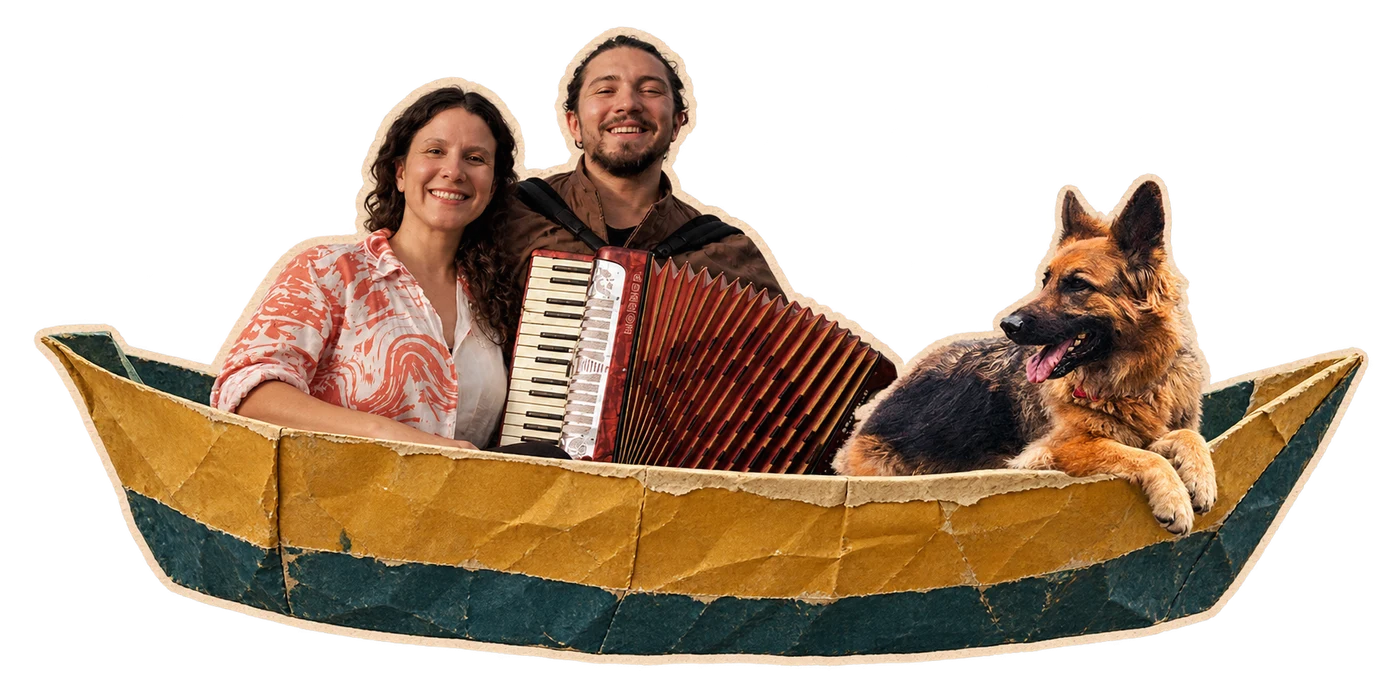
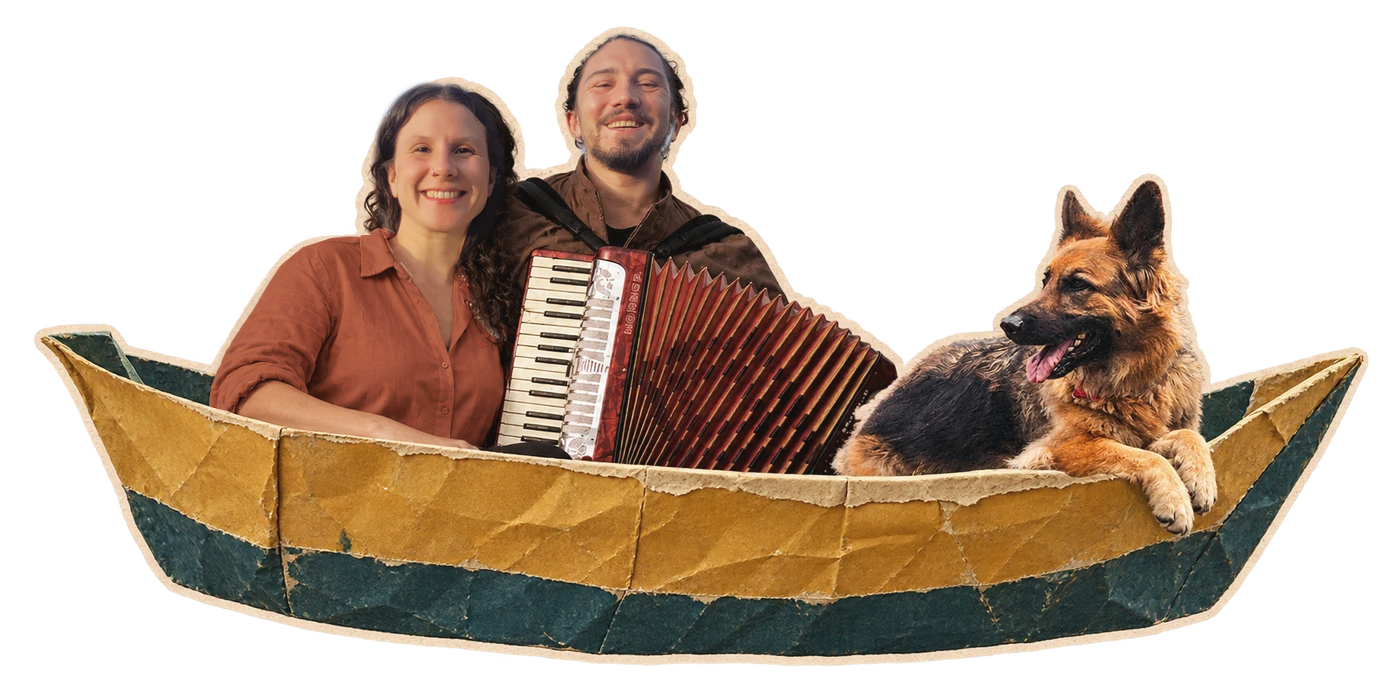
página nosotros

Changed region(s): [[0.1536, 0.1202, 0.3686, 0.6609], [0.3993, 0.03, 0.4914, 0.3004]]

diff --git a/nosotrxs-sea.css b/nosotrxs-sea.css
@@ -1,3 +1,25 @@
 @font-face{font-family:Kaftan;src:url('propuestas/assets/kaftan-trial.otf');font-display:swap}*{box-sizing:border-box}html{scroll-behavior:smooth}body{margin:0;color:#efe5cb;background:#12373e;font:18px/1.8 'Courier Prime',monospace}a{color:inherit;text-underline-offset:6px}a:focus-visible,summary:focus-visible{outline:2px solid currentColor;outline-offset:6px}.skip-work{position:fixed;top:-80px;z-index:50;padding:10px 20px;background:#efe5cb;color:#173d41}.skip-work:focus{top:10px}.sky{background:#e6d3af url('assets/pedagogias/papel-marfil.png') center/950px;background-blend-mode:multiply;color:#252d27}.work-header{max-width:1200px;margin:auto;padding:28px 50px;display:flex;align-items:center;justify-content:space-between;gap:25px;position:relative;z-index:10}.work-brand img{width:48px;height:68px;object-fit:contain}.work-header>nav{display:flex;gap:26px;font-size:14px}.work-header a{text-decoration:none}.work-header a[aria-current]{text-decoration:underline}.work-menu{display:none}.surface{height:650px;position:relative;overflow:hidden;isolation:isolate}.surface h1{font:clamp(62px,8vw,115px)/1.1 Kaftan,serif;text-align:center;margin:0;position:relative;z-index:3;padding-top:20px}.mountains{position:absolute;bottom:190px;left:50%;transform:translateX(-50%);width:max(100%,850px);height:auto;max-height:380px;object-fit:fill;z-index:1}.surface-water{position:absolute;inset:auto -30px 0;height:215px;background:#24555b url('assets/scene-water-2172.webp') center top/1250px auto;z-index:2;clip-path:polygon(0 4%,8% 3%,16% 5%,24% 2%,33% 4%,42% 1%,53% 4%,62% 2%,75% 4%,85% 1%,94% 3%,100% 2%,100% 100%,0 100%);animation:surface-current 12s ease-in-out infinite alternate}.surface:after{content:'';position:absolute;bottom:-1px;left:0;right:0;height:100px;background:linear-gradient(transparent,#173f47);z-index:4;pointer-events:none}.surface-boat{position:absolute;bottom:65px;left:50%;width:min(530px,79%);height:auto;z-index:3;animation:float-boat 8s ease-in-out infinite}.underwater{position:relative;isolation:isolate;overflow:hidden;background:linear-gradient(#173f47,#12343c);padding:80px 0 0}.water-texture{position:absolute;inset:-40px -7%;z-index:-1;pointer-events:none;background:url('assets/scene-water-2172.webp') center top/1200px 410px repeat;opacity:.12;animation:deep-current 18s ease-in-out infinite alternate}.underwater:before{content:'';position:absolute;inset:0;z-index:-1;pointer-events:none;background:linear-gradient(106deg,transparent 10%,#b8ddca08 20%,transparent 29%,transparent 59%,#b8ddca07 64%,transparent 73%)}.manifesto{width:calc(100% - 60px);max-width:740px;margin:auto;padding-bottom:85px}.manifesto>h2{font:clamp(42px,5vw,65px)/1.2 Kaftan,serif;text-align:center;margin:0 0 60px}.manifesto p{margin:0 0 30px}.manifesto .manifesto-opening{font:clamp(32px,4vw,49px)/1.35 Kaftan,serif;text-align:center;margin-bottom:65px}.manifesto .manifest-poem{font:clamp(29px,3.5vw,40px)/1.5 Kaftan,serif;text-align:center;margin:60px 0}.manifesto-ending{text-align:center;font-weight:700;padding:25px 0 45px}.manifest-people{margin-top:25px}.manifest-people summary{cursor:pointer;padding:24px 0;text-align:center;text-decoration:underline;text-underline-offset:7px}.manifest-people[open] summary{margin-bottom:35px}.manifest-people h2{font:38px/1.3 Kaftan,serif;margin:70px 0 30px}.work-footer{padding:0 0 55px}.site-social{display:flex;justify-content:center;gap:25px}.site-social a{display:grid;place-items:center;width:44px;height:44px}.site-social svg{width:26px;height:26px}@keyframes float-boat{0%,100%{transform:translateX(-50%) translateY(0) rotate(-1deg)}50%{transform:translateX(-50%) translateY(-9px) rotate(1deg)}}@keyframes surface-current{to{transform:translateX(20px)}}@keyframes deep-current{to{transform:translate(32px,16px)}}@media(max-width:650px){body{font-size:16px}.work-header{padding:24px 30px}.work-brand img{width:42px;height:60px}.work-header>nav{display:none}.work-menu{display:block;position:relative}.work-menu summary{list-style:none;cursor:pointer;padding:12px}.work-menu summary::-webkit-details-marker{display:none}.work-menu nav{position:absolute;right:0;top:48px;padding:25px;background:#eee2c9;min-width:210px;display:flex;flex-direction:column;gap:15px;box-shadow:0 10px 30px #1a29231a}.surface{height:520px}.surface h1{font-size:65px;padding-top:20px}.mountains{bottom:160px;max-height:280px}.surface-water{height:180px;background-size:950px auto}.surface-boat{bottom:70px;width:86%;max-width:430px}.underwater{padding-top:55px}.manifesto{width:calc(100% - 58px)}.manifesto>h2{margin-bottom:45px}.manifesto .manifesto-opening{margin-bottom:45px}.manifest-people summary{text-align:left}.manifest-people h2{font-size:32px}}@media(prefers-reduced-motion:reduce){html{scroll-behavior:auto}.surface-water,.surface-boat,.water-texture{animation:none}.surface-boat{transform:translateX(-50%)}}
 
-.surface-water{background-size:cover;background-repeat:no-repeat}.mountains{bottom:170px}.water-texture{opacity:.085}@media(max-width:650px){.mountains{bottom:145px}}
+.surface-water{background-size:cover;background-repeat:no-repeat}.mountains{bottom:170px}.water-texture{opacity:.085}@media(max-width:650px){.mountains{bottom:145px}}/* One continuous sheet of sea: no repeated tile edges behind the manifesto. */
+.people-editorial .water-texture{
+ inset:-35px -40px;
+ background:url('assets/mar-continuo.webp') center / cover no-repeat;
+ opacity:.34;
+ mask-image:linear-gradient(to bottom,transparent,#000 140px,#000 calc(100% - 100px),transparent);
+ animation:sea-breath 16s ease-in-out infinite alternate;
+ transform-origin:center;
+}
+.people-editorial .surface-water{
+ background-image:url('assets/mar-continuo.webp');
+ background-size:cover;
+ background-repeat:no-repeat;
+ animation:sea-surface 14s ease-in-out infinite alternate;
+}
+@keyframes sea-breath{from{transform:translate3d(-10px,-5px,0) scale(1.01)}to{transform:translate3d(10px,5px,0) scale(1.025)}}
+@keyframes sea-surface{from{transform:translate3d(-8px,0,0)}to{transform:translate3d(8px,4px,0)}}
+@media(prefers-reduced-motion:reduce){.people-editorial .water-texture,.people-editorial .surface-water{animation:none;transform:none}}
+/* Calmer preview: softer ripples and a slower, shallower drift. */
+.people-editorial .water-texture{opacity:.16;filter:blur(.65px);animation-duration:28s}
+.people-editorial .surface-water{background-image:linear-gradient(#173f4770,#173f4770),url('assets/mar-continuo.webp');animation-duration:26s}
+@keyframes sea-breath{from{transform:translate3d(-3px,-1px,0) scale(1.01)}to{transform:translate3d(3px,1px,0) scale(1.012)}}
+@keyframes sea-surface{from{transform:translate3d(-3px,0,0)}to{transform:translate3d(3px,1px,0)}}
